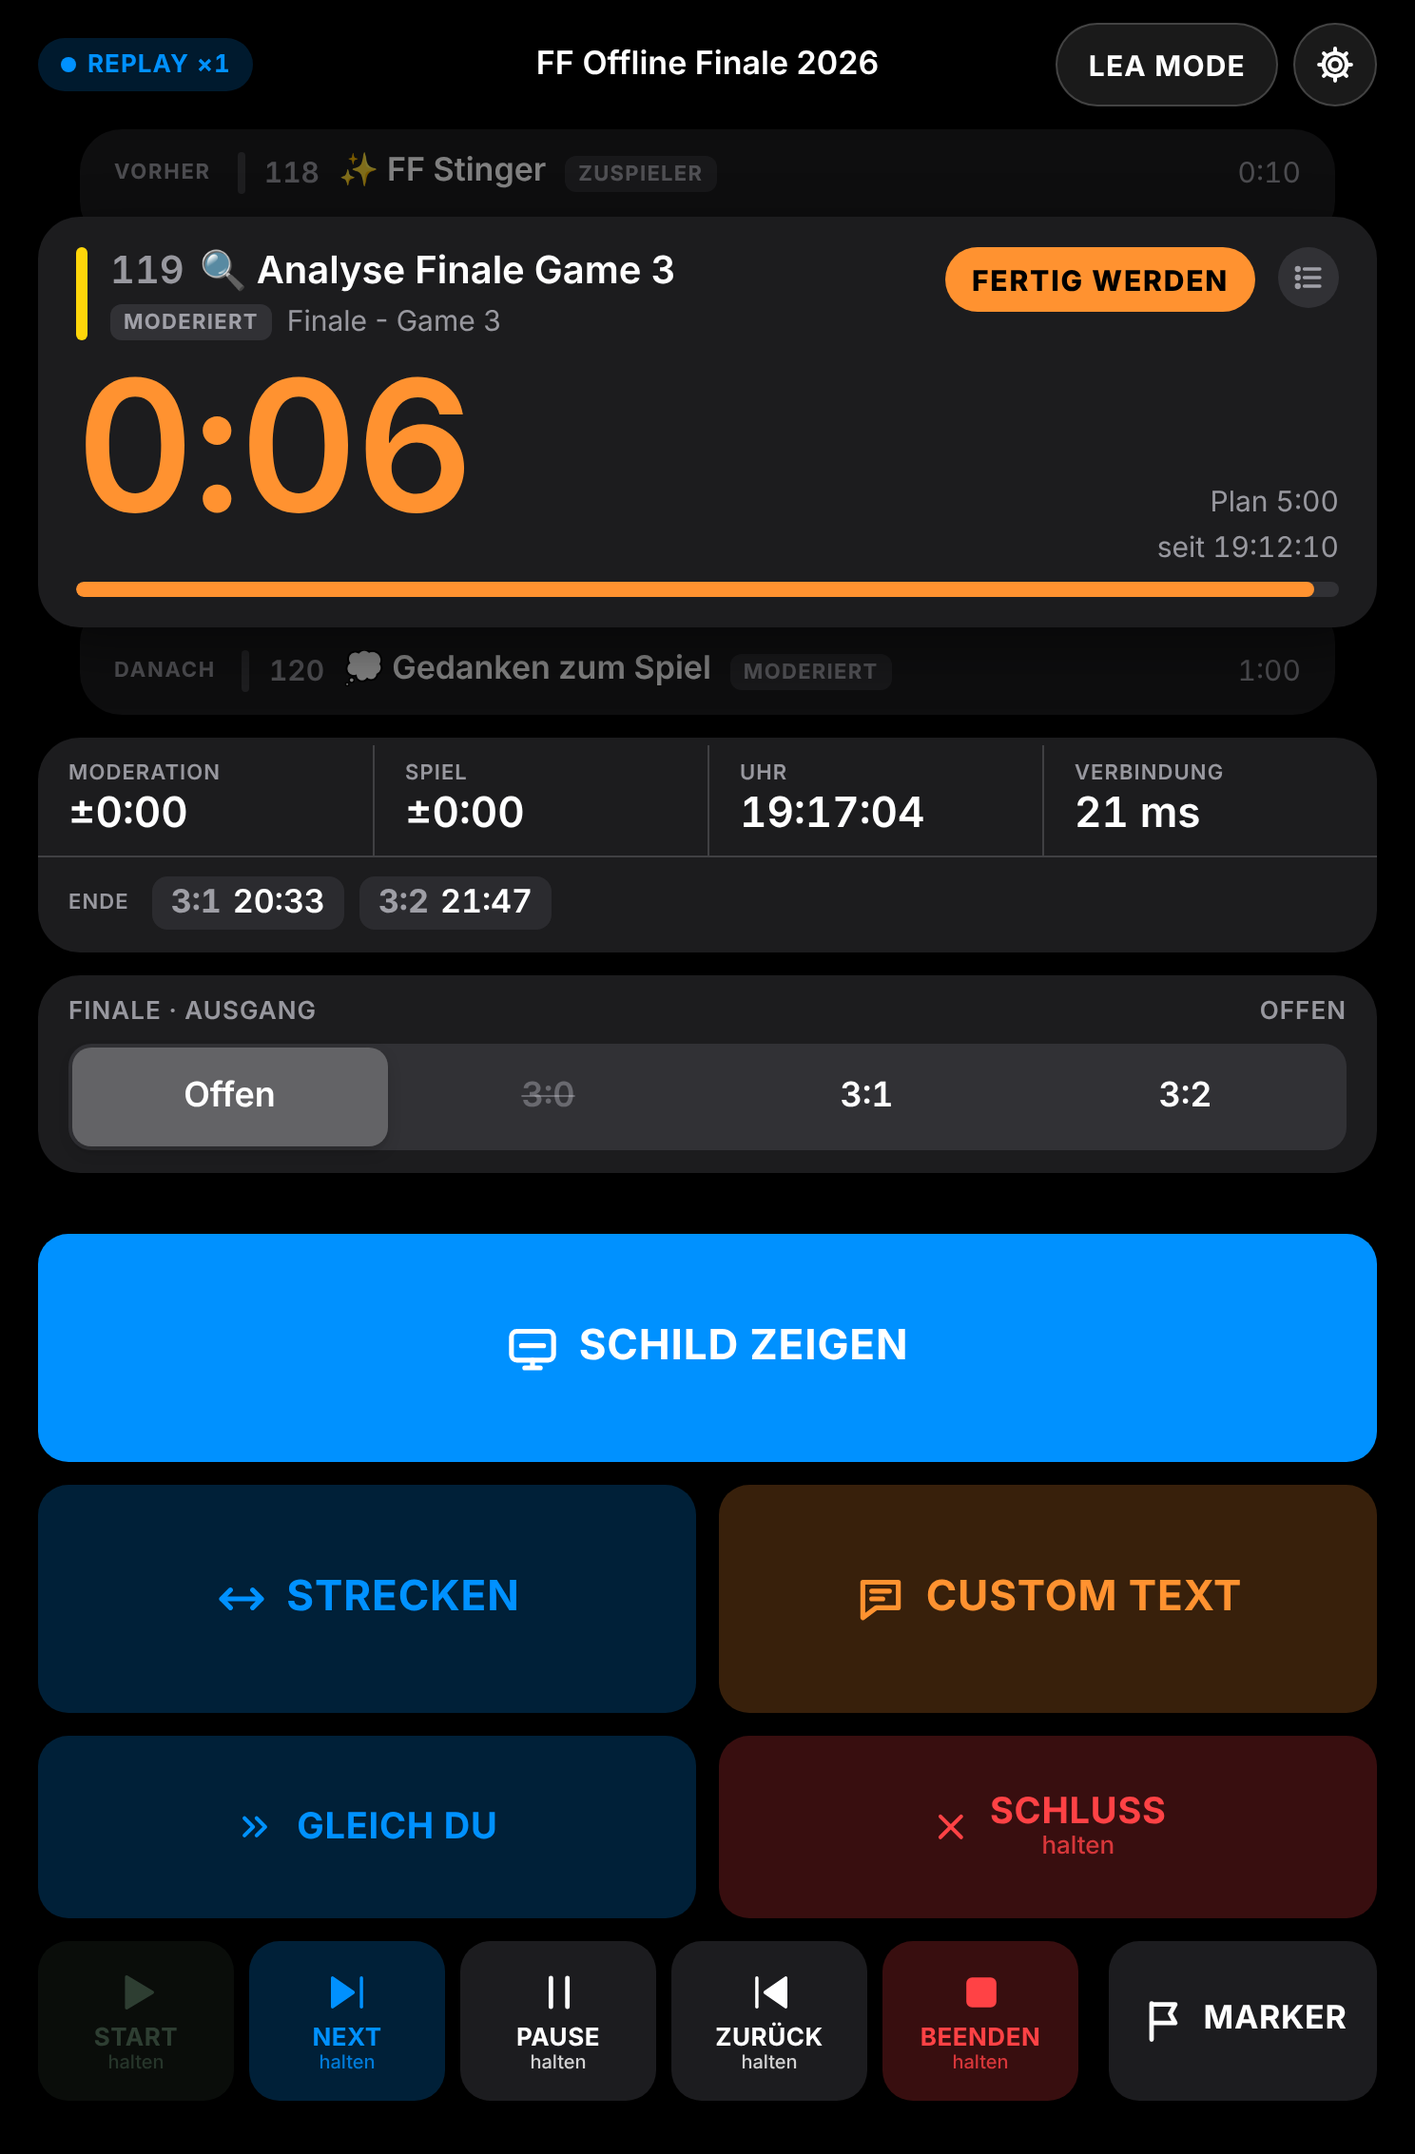
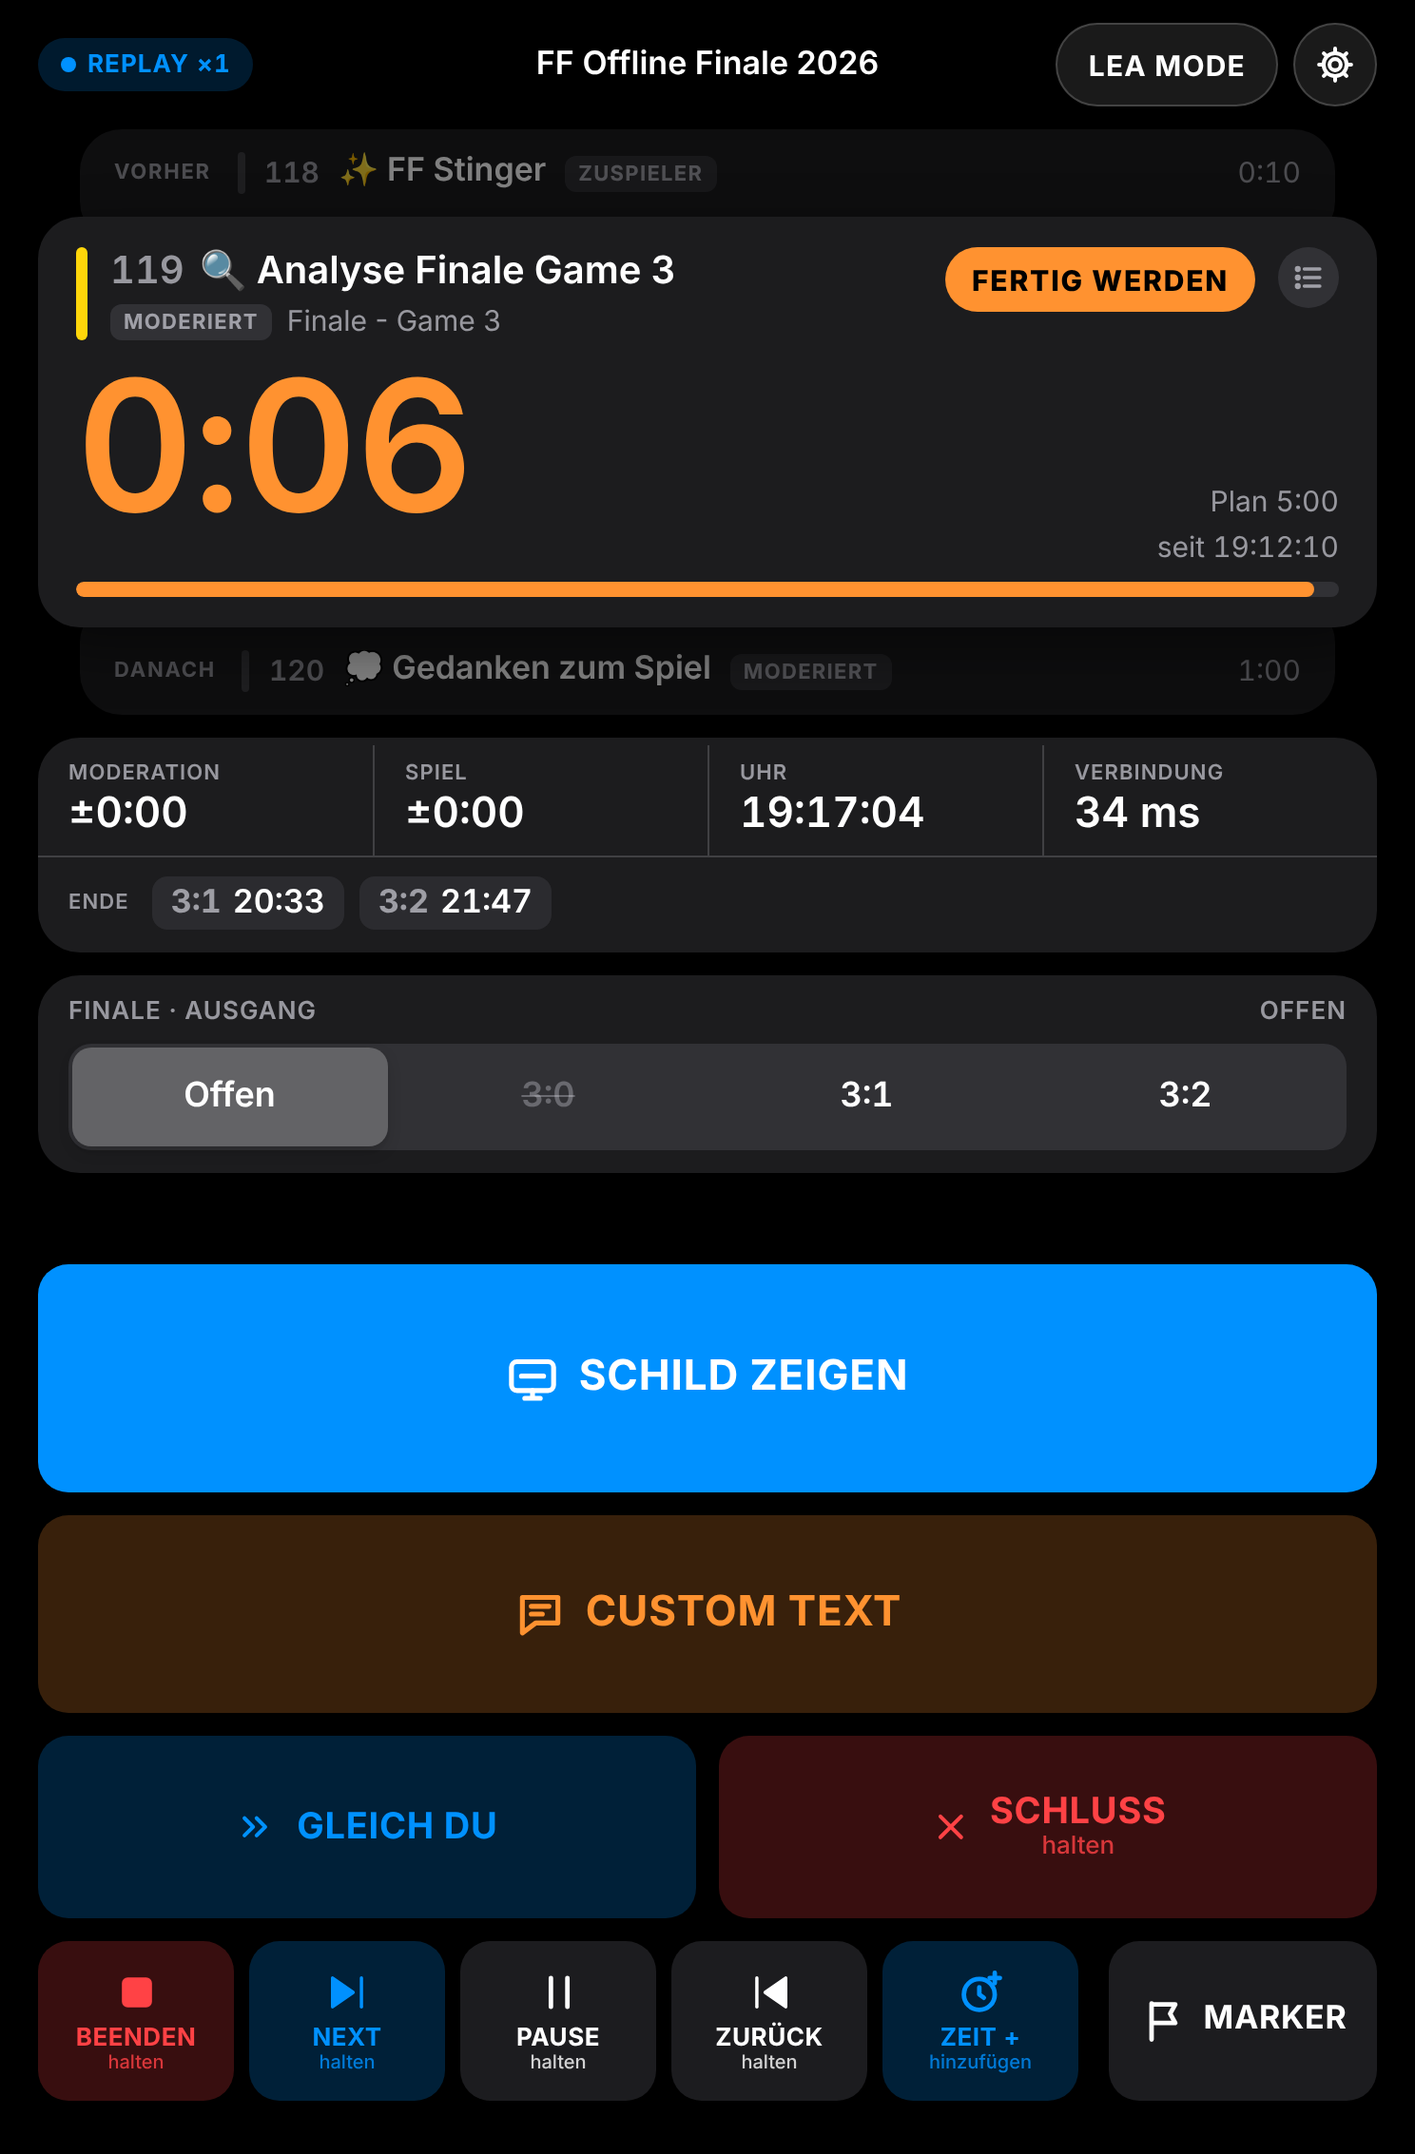
START/BEENDEN in einem Button, ZEIT + in der Steuerreihe, Regie quer
- START (grün) wird nach dem Start zum roten BEENDEN und danach wieder zu
  START – jeweils halten; eigener BEENDEN-Button entfällt
- STRECKEN wird zu "ZEIT +" in der unteren Reihe (gleiche Auswahl inkl.
  Drehräder); AL-Raster: CUSTOM TEXT über die volle Breite
- Regie quer: links Cue-Stapel, rechts Status, Steuerung und Hinweise
  lückenlos untereinander; größere Ziffern
- Version 1.8.0

Claude-Session: https://claude.ai/code/session_01Pd9BMgvoYiwa5gziSvDGUD

diff --git a/public/css/app.css b/public/css/app.css
@@ -1452,10 +1452,10 @@ dialog.text-sheet {
   grid-area: controls;
   display: grid;
   grid-template-columns: repeat(2, minmax(0, 1fr));
-  grid-template-rows: 120px 120px 96px 84px 72px;
+  grid-template-rows: 120px 104px 96px 84px 72px;
   grid-template-areas:
     'sign sign'
-    'stretch wrap'
+    'wrap wrap'
     'standby cut'
     'transport transport'
     'manual manual';
@@ -1465,17 +1465,16 @@ dialog.text-sheet {
 .controls[data-grip='left'] {
   grid-template-areas:
     'sign sign'
-    'wrap stretch'
+    'wrap wrap'
     'cut standby'
     'transport transport'
     'manual manual';
 }
 .controls.no-manual {
-  grid-template-rows: 120px 120px 96px 84px;
+  grid-template-rows: 120px 104px 96px 84px;
 }
 .ctl-sign { grid-area: sign; font-size: 22px; }
 .ctl-text { grid-area: wrap; font-size: 22px; }
-.ctl-stretch { grid-area: stretch; font-size: 22px; }
 .ctl-standby { grid-area: standby; }
 .ctl-cut { grid-area: cut; }
 /* Rundown-Steuerung: Start, Next, Pause, Zurück, Beenden – Marker ganz rechts */
@@ -1532,8 +1531,7 @@ svg.i.solid {
   grid-column: 1 / -1;
 }
 .ctl-sign svg.i,
-.ctl-text svg.i,
-.ctl-stretch svg.i {
+.ctl-text svg.i {
   width: 28px;
   height: 28px;
 }
@@ -1576,12 +1574,10 @@ svg.i.solid {
     align-self: end;
   }
   .ctl-sign,
-  .ctl-text,
-  .ctl-stretch {
+  .ctl-text {
     font-size: 19px;
   }
-  .ctl-text svg.i,
-  .ctl-stretch svg.i {
+  .ctl-text svg.i {
     width: 24px;
     height: 24px;
   }
@@ -2191,13 +2187,13 @@ dialog.rundown-sheet {
 }
 .peek-delta.over { color: var(--red); font-weight: 600; }
 .peek-delta.under { color: var(--green); font-weight: 600; }
-/* Steuerung in der Regie: oben STRECKEN, darunter Start/Next/Pause/Zurück/Beenden/Marker */
+/* Steuerung in der Regie: nur die Reihe Start/Beenden, Next, Pause, Zurück, Zeit +, Marker */
 .op[data-readonly] .controls,
 .op[data-readonly] .controls[data-grip='left'],
 .op[data-readonly] .controls.no-manual {
   grid-template-columns: minmax(0, 1fr);
-  grid-template-rows: 84px 84px;
-  grid-template-areas: 'stretch' 'transport';
+  grid-template-rows: 92px;
+  grid-template-areas: 'transport';
 }
 .op[data-readonly] .ctl-sign,
 .op[data-readonly] .ctl-text,
@@ -2206,11 +2202,69 @@ dialog.rundown-sheet {
 .op[data-readonly] .ctl-manual {
   display: none;
 }
+/* Regie: Spalten-Container. Hochformat: unsichtbar (Kinder bleiben im Raster). */
+.regie-col {
+  display: contents;
+}
+/* Regie quer: links der Cue-Stapel, rechts Status, Steuerung und Kontext – lückenlos untereinander */
 @media (orientation: landscape) {
-  .op[data-readonly] .status {
-    align-self: start;
+  .op[data-readonly] {
+    grid-template-columns: minmax(0, 1.15fr) minmax(0, 1fr);
+    grid-template-rows: auto minmax(0, 1fr);
+    grid-template-areas:
+      'nav nav'
+      'left right';
   }
-  .op[data-readonly] .controls {
-    align-self: end;
+  .op[data-readonly] .regie-col {
+    display: flex;
+    flex-direction: column;
+    gap: var(--gap);
+    min-height: 0;
+    min-width: 0;
+  }
+  .op[data-readonly] .regie-left {
+    grid-area: left;
+  }
+  .op[data-readonly] .regie-right {
+    grid-area: right;
+  }
+  .op[data-readonly] .regie-left .now {
+    flex: 1 1 auto;
+    justify-content: space-between;
+  }
+  .op[data-readonly] .regie-left .peek {
+    flex: none;
+  }
+  .op[data-readonly] .regie-right .context {
+    flex: 1 1 auto;
+    min-height: 0;
+    overflow: auto;
+  }
+  .op[data-readonly] .regie-right .controls {
+    flex: none;
+    order: 2;
+  }
+  .op[data-readonly] .regie-right .status {
+    order: 1;
+  }
+  .op[data-readonly] .regie-right .context {
+    order: 3;
+  }
+  .op[data-readonly] .regie-right .controls {
+    align-self: stretch;
+  }
+  .op[data-readonly] .regie-right .stat {
+    padding: 8px 12px;
+  }
+  .op[data-readonly] .regie-right .stat-value {
+    font-size: 20px;
+  }
+  .op[data-readonly] .now-digits {
+    font-size: clamp(96px, 17vh, 132px);
+  }
+  .op[data-readonly] .regie-left .now .now-time {
+    flex: 1 1 auto;
+    align-items: center;
+    flex-wrap: wrap;
   }
 }

diff --git a/public/js/views/operator.js b/public/js/views/operator.js
@@ -76,7 +76,8 @@ export class OperatorView {
       tPauseText: $(r, '#t-pause-text'),
       tPauseUse: $(r, '#t-pause use'),
       tPrev: $(r, '#t-prev'),
-      tFinish: $(r, '#t-finish'),
+      tStartText: $(r, '#t-start-text'),
+      tStartUse: $(r, '#t-start use'),
       bManual: $(r, '#b-manual'),
       bPrev: $(r, '#b-prev'),
       bNext: $(r, '#b-next'),
@@ -94,8 +95,19 @@ export class OperatorView {
     this.el.peekPrev.hidden = false;
     this.el.peekNext.hidden = false;
     if (o.readonly) {
-      // Regieansicht: nur Strecken, Rundown-Steuerung und Marker
+      // Regieansicht: nur Rundown-Steuerung, Zeit + und Marker.
+      // Zwei Spalten-Container, damit im Querformat alles lückenlos untereinander steht
+      // (im Hochformat sind sie per display:contents unsichtbar).
       r.dataset.readonly = '';
+      const left = document.createElement('div');
+      left.className = 'regie-col regie-left';
+      const right = document.createElement('div');
+      right.className = 'regie-col regie-right';
+      this.el.now.before(left);
+      left.append(this.el.peekPrev, this.el.now, this.el.peekNext);
+      const status = r.querySelector('.status');
+      status.before(right);
+      right.append(status, this.el.controls, this.el.context);
     }
     this.signals = {};
     this.bind();
@@ -116,11 +128,11 @@ export class OperatorView {
     bindTap(e.bStretch, () => this.onStretch());
     bindTap(e.bMarker, () => this.act({ type: 'marker' }));
     // Rundown im Backend steuern – alle Aktionen 0,6 s halten, damit nichts aus Versehen passiert
-    bindHold(e.tStart, () => this.onControl?.('start'));
+    // START wird zu BEENDEN, sobald die Show läuft (und danach wieder zu START)
+    bindHold(e.tStart, () => this.onControl?.(this.running ? 'finish' : 'start'));
     bindHold(e.tNext, () => this.onControl?.('next'));
     bindHold(e.tPause, () => this.onControl?.('toggle'));
     bindHold(e.tPrev, () => this.onControl?.('prev'));
-    bindHold(e.tFinish, () => this.onControl?.('finish'));
     bindHold(e.bCut, () => this.act({ type: 'signal', kind: 'cut', on: !this.signals.cut }));
     bindHold(e.bManual, () => this.onManual('enter'));
     bindHold(e.bPrev, () => this.onManual('prev'));
@@ -401,11 +413,19 @@ export class OperatorView {
     const running = !!st?.show?.isRunning;
     const paused = !!st?.show?.isPaused;
     const ctlOff = meta.local || !st;
-    e.tStart.disabled = ctlOff || running;
+    this.running = running;
+    e.tStart.disabled = ctlOff;
+    setText(e.tStartText, running ? 'BEENDEN' : 'START');
+    const startIcon = running ? '#i-stop' : '#i-play';
+    if (e.tStartUse.getAttribute('href') !== startIcon) {
+      e.tStartUse.setAttribute('href', startIcon);
+      e.tStart.setAttribute('aria-label', running ? 'Show beenden (halten)' : 'Start: Show starten (halten)');
+    }
+    e.tStart.classList.toggle('tint-green', !running);
+    e.tStart.classList.toggle('tint-red', running);
     e.tNext.disabled = ctlOff || !running;
     e.tPause.disabled = ctlOff || !running;
     e.tPrev.disabled = ctlOff || !running;
-    e.tFinish.disabled = ctlOff || !running;
     setText(e.tPauseText, paused ? 'WEITER' : 'PAUSE');
     const pauseIcon = paused ? '#i-play' : '#i-pause';
     if (e.tPauseUse.getAttribute('href') !== pauseIcon) {

diff --git a/public/index.html b/public/index.html
@@ -41,6 +41,7 @@
       <symbol id="i-pause" viewBox="0 0 24 24"><path d="M8 5v14M16 5v14" /></symbol>
       <symbol id="i-skip-prev" viewBox="0 0 24 24"><path d="M19.5 5v14l-10-7z" /><path d="M5.5 5v14" /></symbol>
       <symbol id="i-stop" viewBox="0 0 24 24"><rect x="5.5" y="5.5" width="13" height="13" rx="2" /></symbol>
+      <symbol id="i-plus-time" viewBox="0 0 24 24"><circle cx="11" cy="13" r="7.5" /><path d="M11 9.5V13l2.2 1.6M18.5 2.5v5M16 5h5" /></symbol>
       <symbol id="i-list" viewBox="0 0 24 24"><path d="M9 6h11M9 12h11M9 18h11" /><circle cx="4.5" cy="6" r="1" /><circle cx="4.5" cy="12" r="1" /><circle cx="4.5" cy="18" r="1" /></symbol>
       <symbol id="i-eye" viewBox="0 0 24 24"><path d="M2.5 12S6 5.5 12 5.5 21.5 12 21.5 12 18 18.5 12 18.5 2.5 12 2.5 12z" /><circle cx="12" cy="12" r="3" /></symbol>
     </svg>
@@ -127,9 +128,6 @@
         <button class="btn tint-orange ctl-text" id="b-text" type="button" aria-pressed="false">
           <svg class="i"><use href="#i-text" /></svg><span>CUSTOM TEXT</span>
         </button>
-        <button class="btn tint-blue ctl-stretch" id="b-stretch" type="button">
-          <svg class="i"><use href="#i-stretch" /></svg><span>STRECKEN</span>
-        </button>
         <button class="btn tint-blue ctl-standby" id="b-standby" type="button" aria-pressed="false">
           <svg class="i"><use href="#i-standby" /></svg><span>GLEICH DU</span>
         </button>
@@ -138,7 +136,7 @@
         </button>
         <div class="ctl-transport" id="transport" role="group" aria-label="Rundown steuern">
           <button class="btn tint-green tbtn" id="t-start" type="button" aria-label="Start: Show starten (halten)">
-            <svg class="i solid"><use href="#i-play" /></svg><span class="btn-label"><span>START</span><small>halten</small></span>
+            <svg class="i solid"><use href="#i-play" /></svg><span class="btn-label"><span id="t-start-text">START</span><small>halten</small></span>
           </button>
           <button class="btn tint-blue tbtn" id="t-next" type="button" aria-label="Next: nächster Cue (halten)">
             <svg class="i solid"><use href="#i-skip-next" /></svg><span class="btn-label"><span>NEXT</span><small>halten</small></span>
@@ -149,8 +147,8 @@
           <button class="btn btn-gray tbtn" id="t-prev" type="button" aria-label="Zurück: vorheriger Cue (halten)">
             <svg class="i solid"><use href="#i-skip-prev" /></svg><span class="btn-label"><span>ZURÜCK</span><small>halten</small></span>
           </button>
-          <button class="btn tint-red tbtn" id="t-finish" type="button" aria-label="Show beenden (halten)">
-            <svg class="i solid"><use href="#i-stop" /></svg><span class="btn-label"><span>BEENDEN</span><small>halten</small></span>
+          <button class="btn tint-blue tbtn ctl-stretch" id="b-stretch" type="button" aria-label="Zeit hinzufügen">
+            <svg class="i"><use href="#i-plus-time" /></svg><span class="btn-label"><span>ZEIT +</span><small>hinzufügen</small></span>
           </button>
           <button class="btn btn-gray ctl-marker" id="b-marker" type="button">
             <svg class="i"><use href="#i-marker" /></svg><span>MARKER</span>

diff --git a/public/sw.js b/public/sw.js
@@ -1,5 +1,5 @@
 // Service Worker: App-Hülle offline verfügbar, API und WebSocket nie aus dem Cache.
-const VERSION = 'al-1.7.1';
+const VERSION = 'al-1.8.0';
 const SHELL = [
   '/',
   '/index.html',

diff --git a/README.md b/README.md
@@ -11,7 +11,7 @@ Web-App (PWA) für die Aufnahmeleitung auf dem **iPad mini (6./7. Gen.)**. Die A
 | ![Bedienung](docs/screenshots/bedienung-hoch-laeuft.png) | ![Schild läuft](docs/screenshots/schild-quer-laeuft.png) |
 | ![Überzug](docs/screenshots/bedienung-hoch-ueber.png) | ![Schild Überzug](docs/screenshots/schild-quer-ueber.png) |
 
-Weitere Zustände liegen in [`docs/screenshots`](docs/screenshots): Rundown-Tabelle, NOCH 2, FERTIG WERDEN, STRECKEN-Drehrad, CUSTOM TEXT, SCHLUSS, GLEICH DU, Spiel, Anker-Pause, Querformat, helles Erscheinungsbild und Einstellungen.
+Weitere Zustände liegen in [`docs/screenshots`](docs/screenshots): Rundown-Tabelle, NOCH 2, FERTIG WERDEN, ZEIT-+-Drehrad, CUSTOM TEXT, SCHLUSS, GLEICH DU, Spiel, Anker-Pause, Querformat, helles Erscheinungsbild und Einstellungen.
 
 ---
 
@@ -74,14 +74,13 @@ Am Set braucht das iPad Internet. Fällt es aus, zählt das Schild weiter, und n
 | Cue-Kasten oben | Öffnet den kompletten Rundown als Tabelle: vergangene Cues mit Ist-Start, Ist-Dauer und Abweichung, der aktuelle Cue hervorgehoben mit Restzeit, kommende Cues mit erwarteter Startzeit entlang der gewählten Szenarien. Dazu Plan-Start, Dauer, Streckung, Art, Notizen und die eigenen Spalten des Rundowns (z. B. GFX, Ort, Ton). *Zu JETZT* springt zurück zum aktuellen Cue | Tippen |
 | SCHILD ZEIGEN | Schild auch im Hochformat. Verlassen: 1 s irgendwo halten | Tippen |
 | CUSTOM TEXT | Öffnet einen Editor für einen eigenen Text auf dem Schild: fett, kursiv, unterstrichen, sechs Farben, GROSSBUCHSTABEN, Schnelltexte und ein GIF von Giphy. Solange der Text steht, ist der Button gefüllt und die Bedienansicht zeigt ihn mit AUSBLENDEN | Tippen, dann *Anzeigen* |
-| STRECKEN | Öffnet die Auswahl +30 s, +1 Min, +2 Min oder +5 Min. Darunter stellen zwei Drehräder (Min : Sek, je 00–99) eine eigene Zeit ein. Verlängert den laufenden Cue und zählt als gewollt, nicht als Überzug | Tippen, dann Zeit wählen |
 | GLEICH DU | Schild blau, z. B. kurz vor Ende eines Spiels | Tippen |
 | SCHLUSS | Schild rot mit „SCHLUSS“; erneut halten hebt auf | 0,6 s halten |
-| START ▶ | Startet die Show im Rundown-Backend (nur aktiv, solange sie nicht läuft) | 0,6 s halten |
+| START ▶ / BEENDEN ⏹ | Ein Button für beides: grün START, solange der Rundown nicht läuft; nach dem Start rot BEENDEN; nach dem Beenden wieder grün START | 0,6 s halten |
 | NEXT ⏭ | Schaltet im Backend auf den nächsten Cue | 0,6 s halten |
 | PAUSE ⏸ / WEITER ▶ | Pausiert die Show im Backend bzw. setzt sie fort | 0,6 s halten |
 | ZURÜCK ⏮ | Schaltet im Backend auf den vorherigen Cue | 0,6 s halten |
-| BEENDEN ⏹ | Beendet die Show im Backend | 0,6 s halten |
+| ZEIT + | Öffnet die Auswahl +30 s, +1 Min, +2 Min oder +5 Min, darunter zwei Drehräder (Min : Sek, je 00–99) für eine eigene Zeit. Verlängert den laufenden Cue und zählt als gewollt, nicht als Überzug | Tippen, dann Zeit wählen |
 | MARKER | Eintrag für Nachbericht und Resolve (ganz rechts in der unteren Reihe) | Tippen |
 | MANUELL ◀ ▶ | Erscheint erst, wenn die Quelle oder der Relay 10 s ausfällt | 0,6 s halten |
 
@@ -95,7 +94,7 @@ Am Set braucht das iPad Internet. Fällt es aus, zählt das Schild weiter, und n
 
 ### Regieansicht (`/regie`)
 
-Wie in der Bedienansicht ist der aktuelle Cue das Hauptelement. Darüber liegt halbtransparent der vorherige Cue (Start, Ist-Dauer, Abweichung), darunter der nächste (Dauer, ggf. SPRUNG). Unten gibt es STRECKEN und die Reihe START · NEXT · PAUSE · ZURÜCK · BEENDEN (jeweils halten) · MARKER. Schild, Custom Text, GLEICH DU, SCHLUSS und die Szenario-Wahl bleiben der AL vorbehalten.
+Wie in der Bedienansicht ist der aktuelle Cue das Hauptelement. Darüber liegt halbtransparent der vorherige Cue (Start, Ist-Dauer, Abweichung), darunter der nächste (Dauer, ggf. SPRUNG). Unten gibt es die Reihe START/BEENDEN · NEXT · PAUSE · ZURÜCK (jeweils halten) · ZEIT + · MARKER. Im Querformat steht links der Cue-Stapel, rechts lückenlos untereinander Status, Steuerung und Hinweise. Schild, Custom Text, GLEICH DU, SCHLUSS und die Szenario-Wahl bleiben der AL vorbehalten.
 
 ![Regie](docs/screenshots/regie-hoch.png)
 
